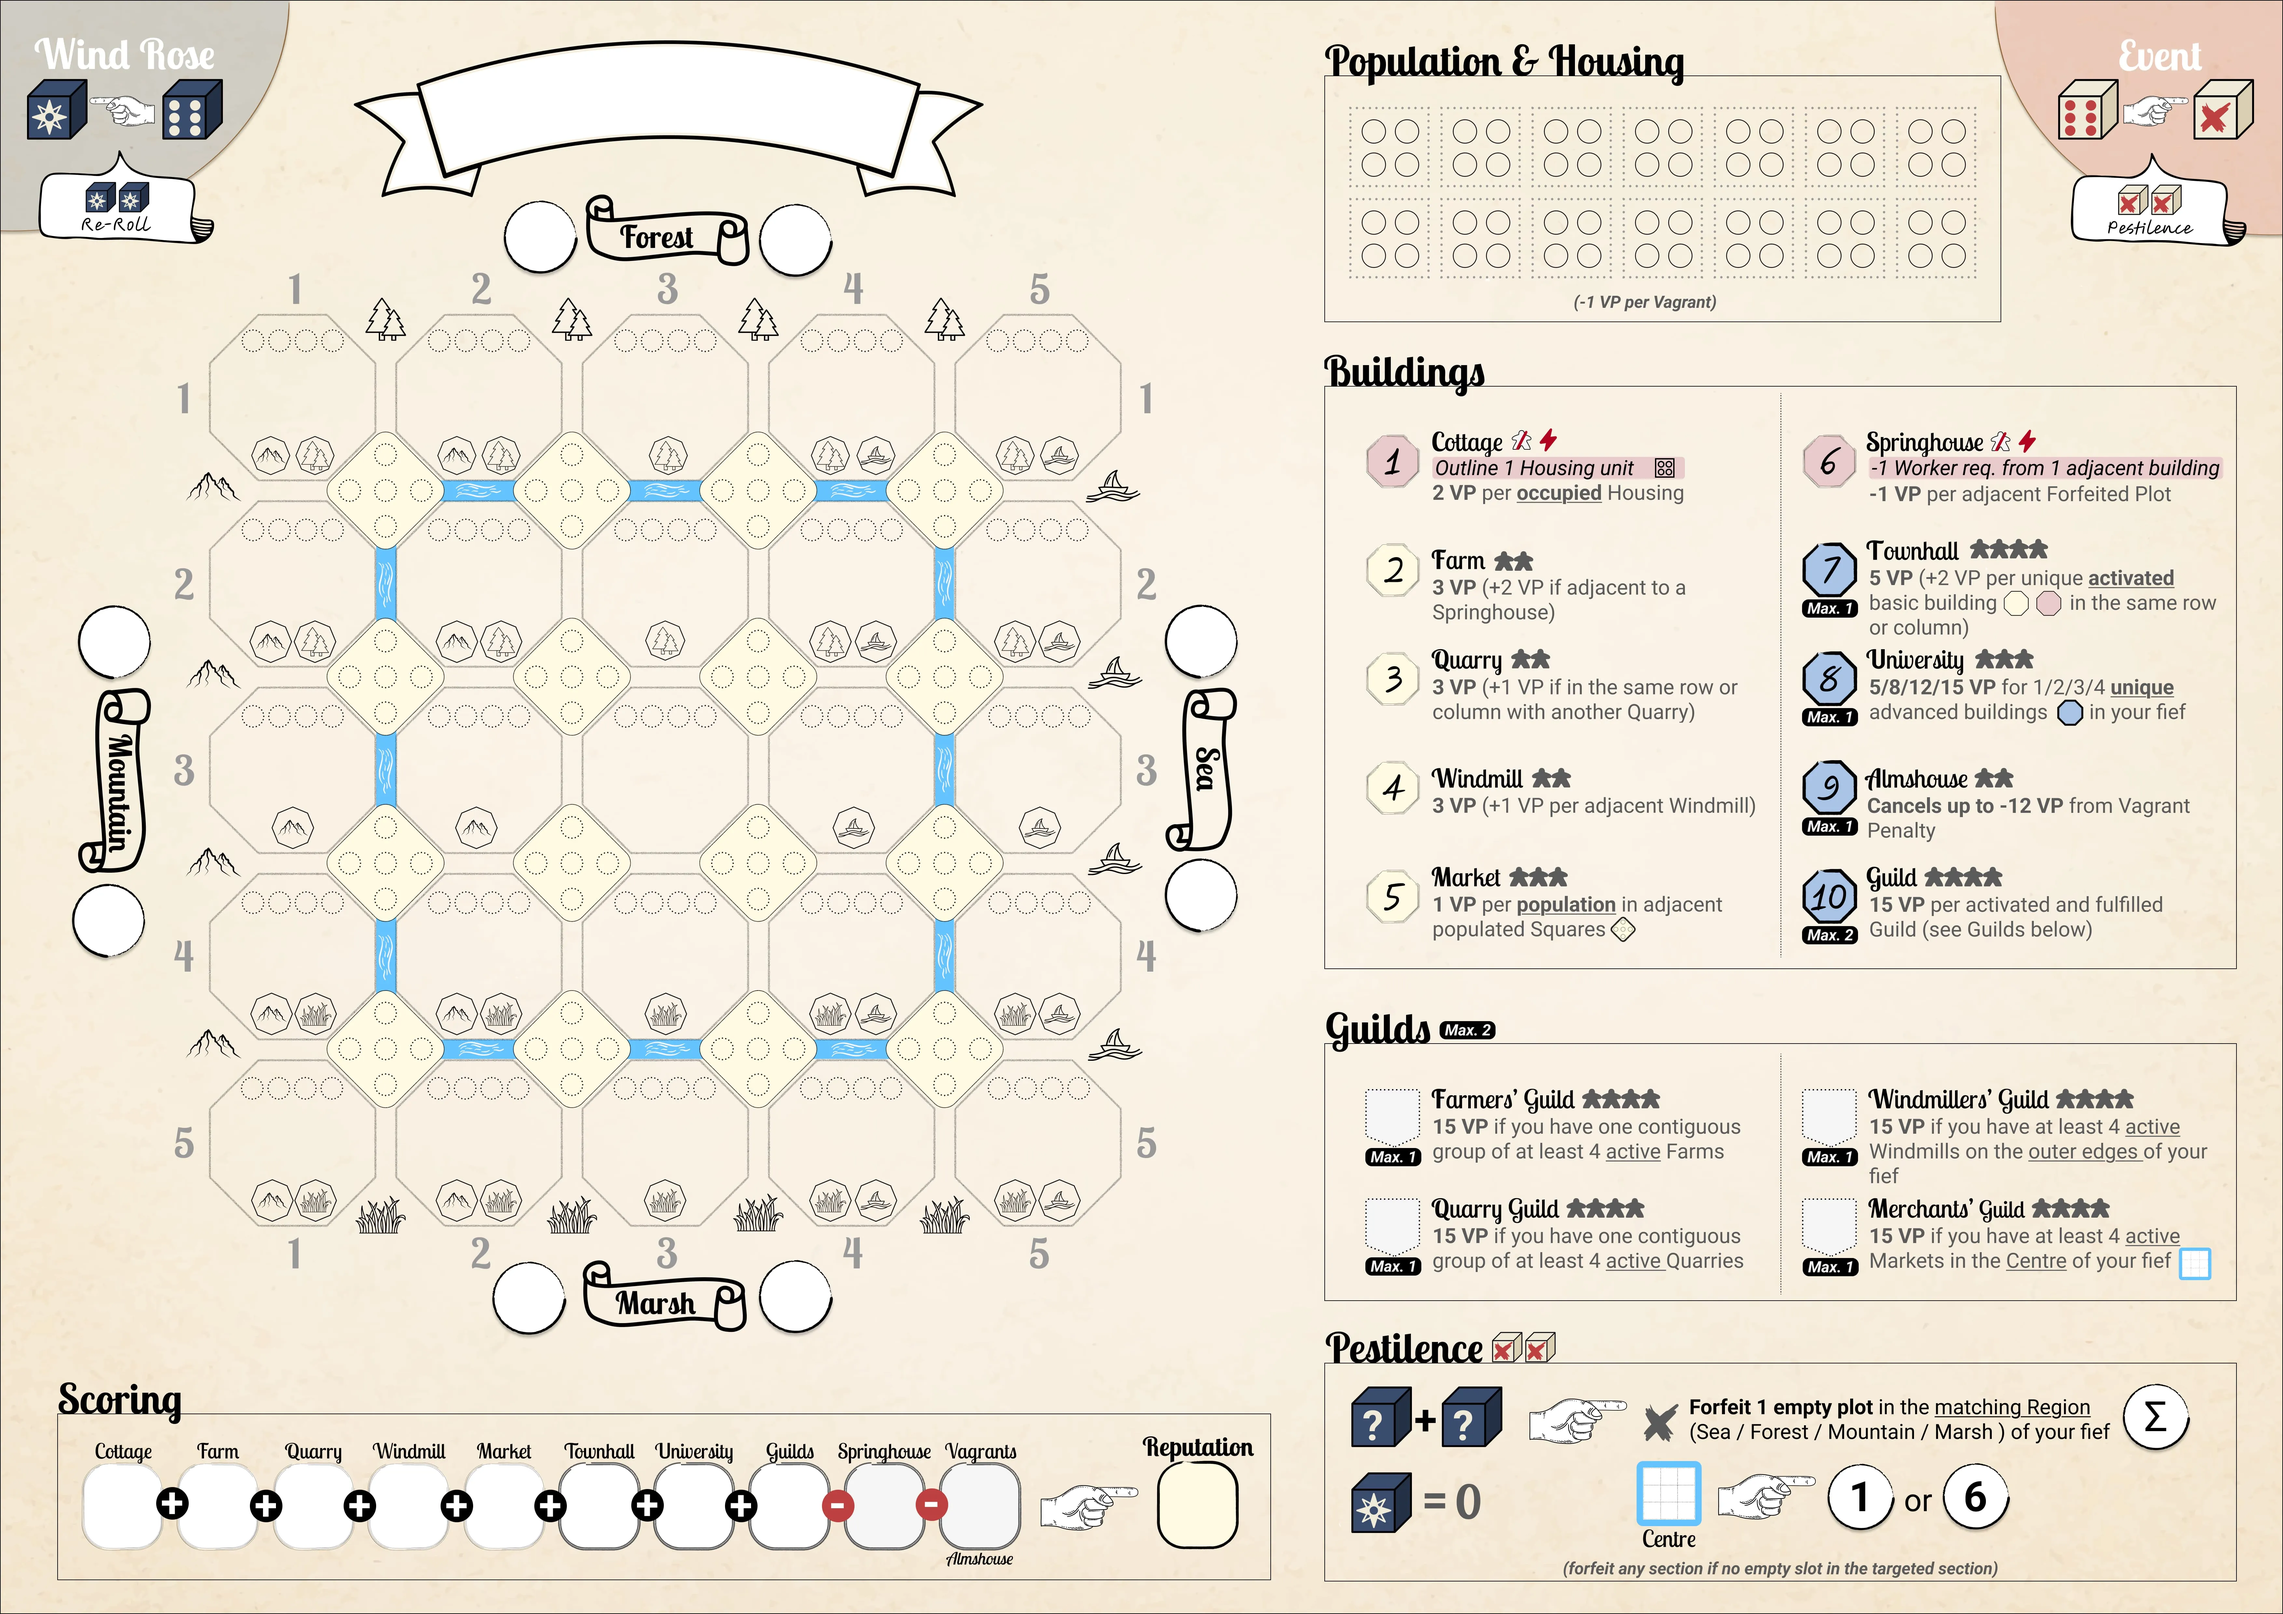
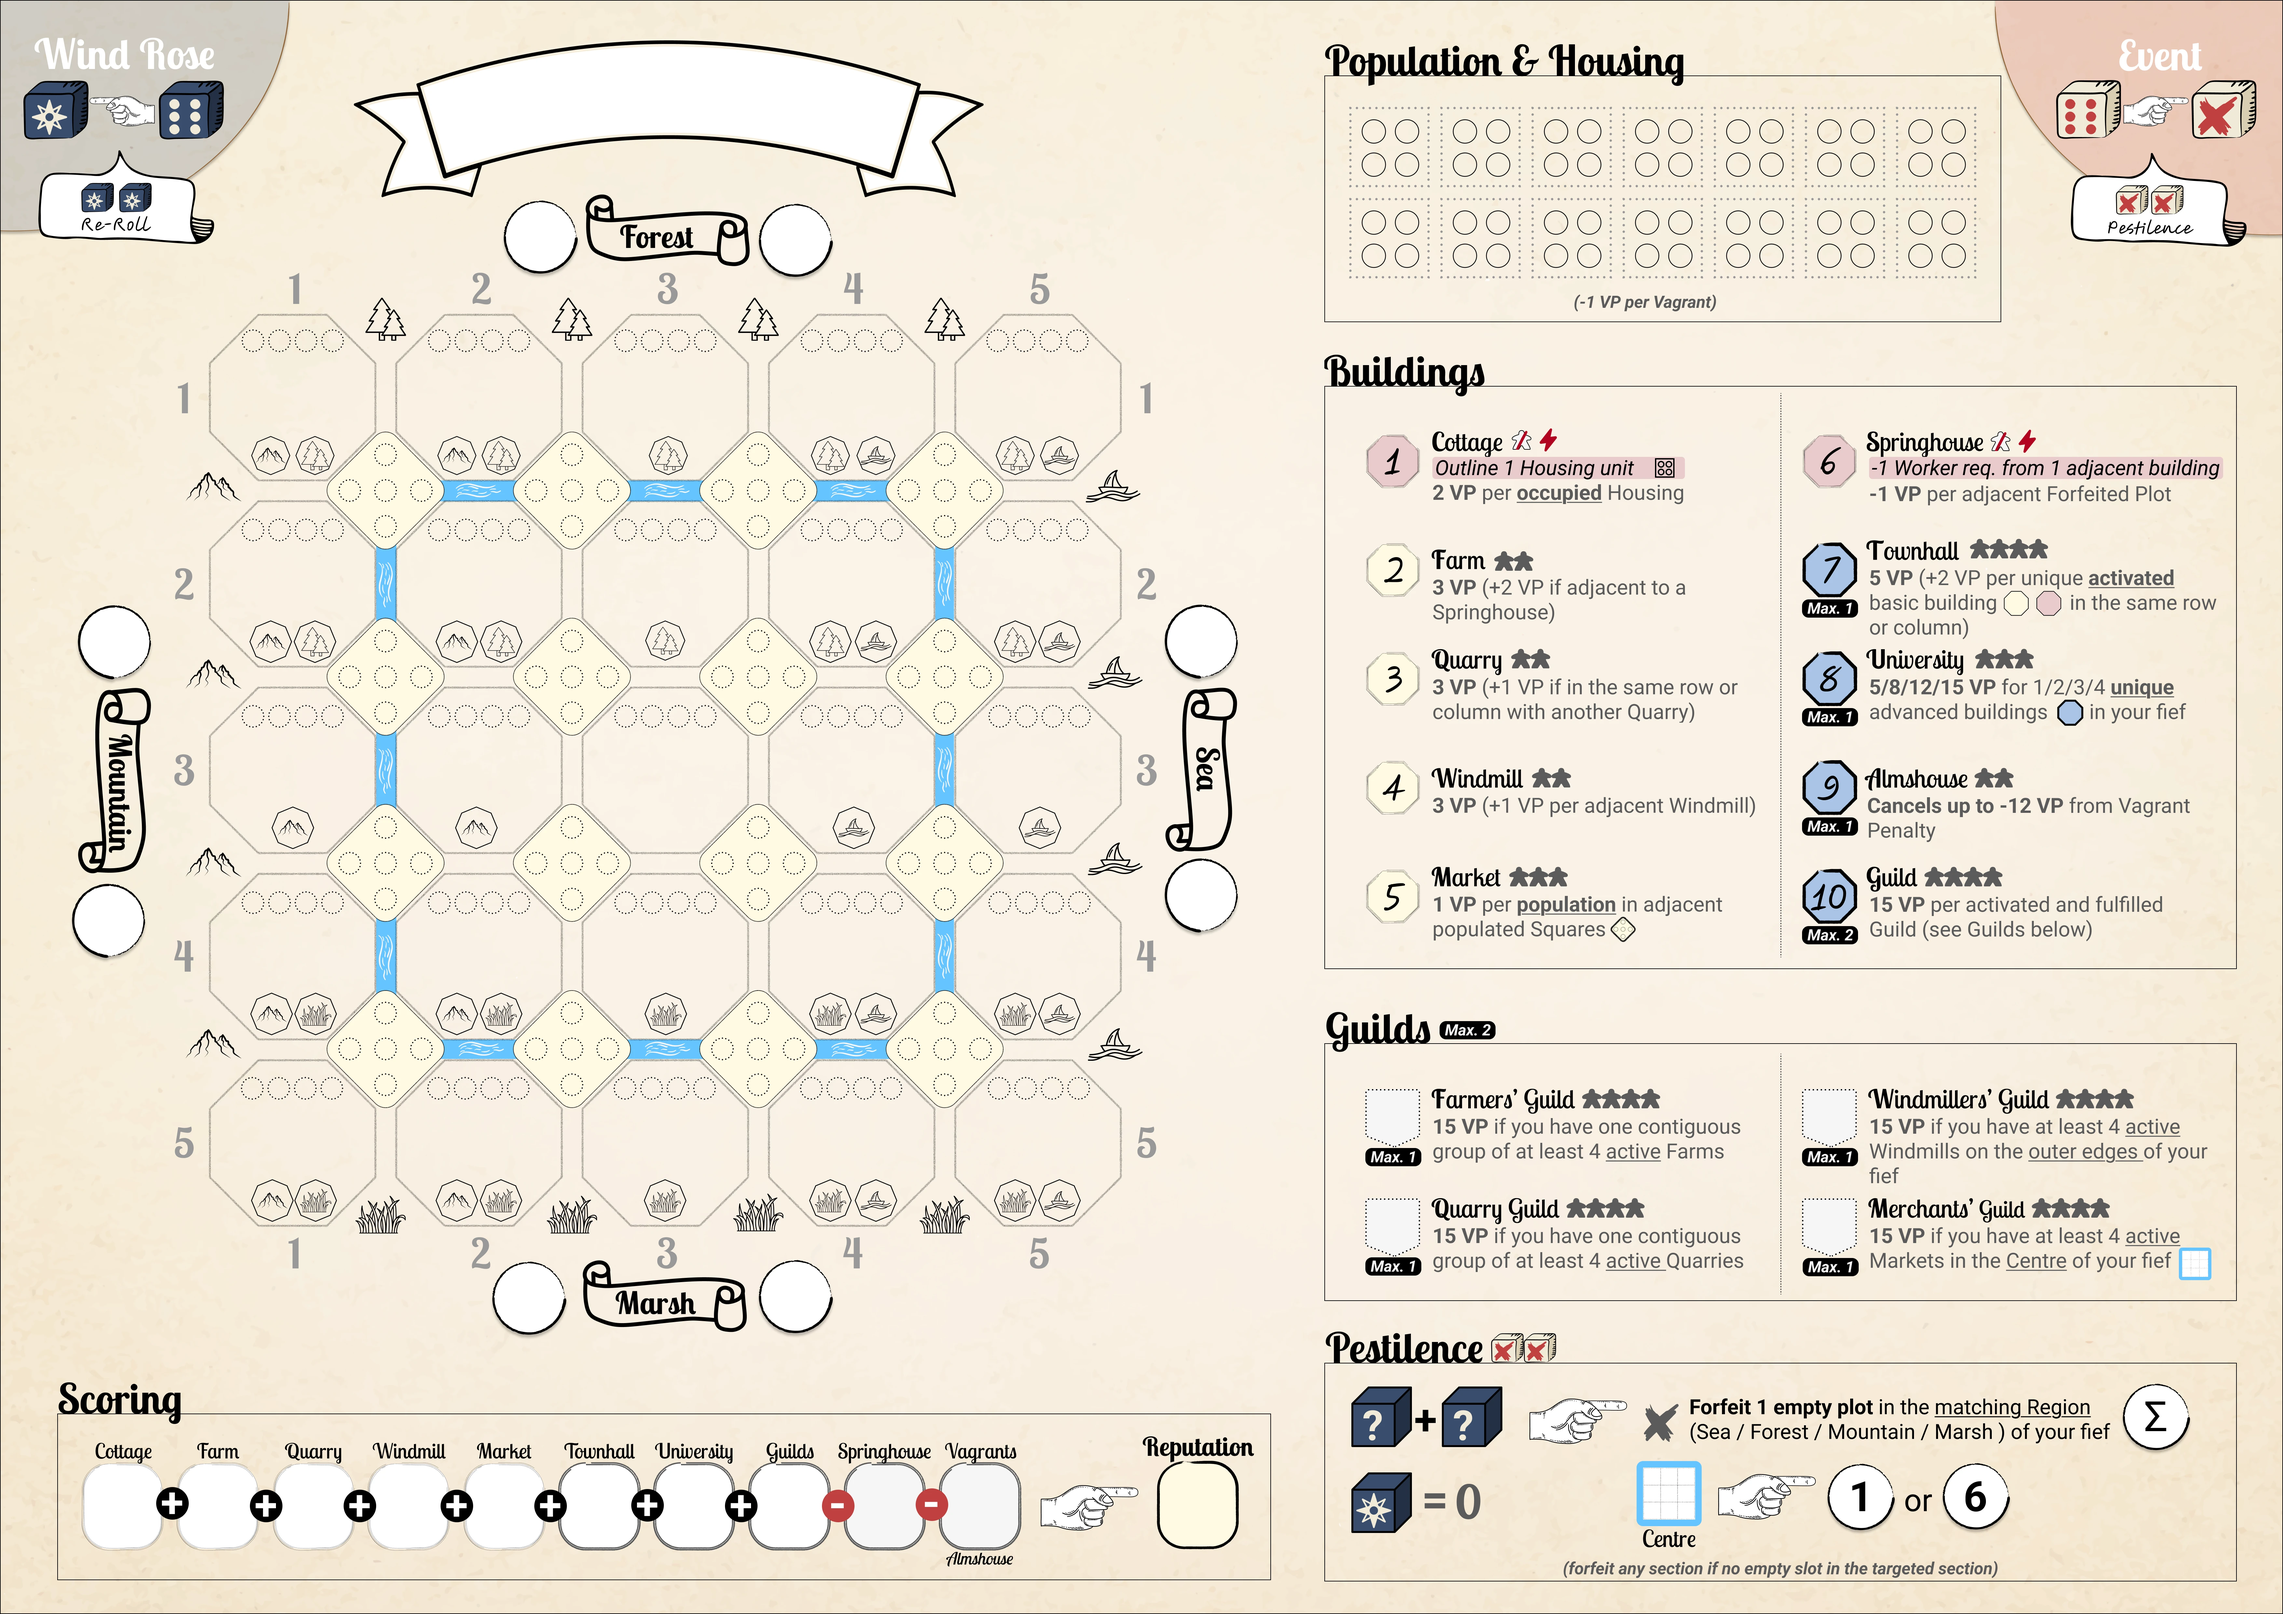
change dice shape

diff --git a/assets/css/styles.css b/assets/css/styles.css
@@ -1,5 +1,5 @@
 :root {
-  --sheet-image: url("../../resources/rolling-fiefdoms-player-sheet.webp?v=v1.3");
+  --sheet-image: url("../../resources/rolling-fiefdoms-player-sheet.webp?v=v1.5");
   --bg: #fffbe2;
   --panel: #ffffff;
   --border: #d0c6b8;
@@ -1143,8 +1143,8 @@ select {
   height: 42px;
   margin-right: 8px;
   border-radius: 8px;
-  background: var(--die-base);
-  border: 1px solid rgba(0, 0, 0, 0.1);
+  /* background: var(--die-base); */
+  /* border: 1px solid rgba(0, 0, 0, 0.1); */
   transform-style: preserve-3d;
   box-shadow: none;
   position: relative;
@@ -1162,46 +1162,6 @@ select {
   transform-style: preserve-3d;
   border-radius: 8px;
   overflow: hidden;
-}
-
-.die-badge .side-shade {
-  position: absolute;
-  inset: 3px;
-  border-radius: 6px;
-  background: none;
-  opacity: 0;
-  pointer-events: none;
-}
-
-.die-badge .side-shade::before,
-.die-badge .side-shade::after {
-  content: "";
-  position: absolute;
-  inset: 0;
-  border-radius: 6px;
-  background: linear-gradient(0deg, rgba(0, 0, 0, 0.06), transparent 60%);
-}
-
-.die-badge .side-shade::after {
-  background: linear-gradient(180deg, rgba(0, 0, 0, 0.06), transparent 60%);
-}
-
-.die-special .side-shade {
-  display: none;
-}
-
-.die-badge .side-3d {
-  display: none;
-}
-
-.die-badge .side-3d-x {
-  transform: rotateY(90deg) translateZ(21px) scaleY(0.92);
-  background: linear-gradient(90deg, rgba(0, 0, 0, 0.15), rgba(255, 255, 255, 0.04));
-}
-
-.die-badge .side-3d-y {
-  transform: rotateX(90deg) translateZ(21px) scaleX(0.92);
-  background: linear-gradient(180deg, rgba(0, 0, 0, 0.16), rgba(255, 255, 255, 0.04));
 }
 
 .die-badge::before {
@@ -1226,13 +1186,23 @@ select {
 .die-face {
   width: 90%;
   height: 90%;
-  color: #f0ebd8;
+  color: var(--die-base, #394c6d);
   border-radius: 8px;
-  overflow: hidden;
+  overflow: visible;
+}
+
+.die-base {
+  fill: currentColor;
+}
+
+.die-shape {
+  opacity: 1;
+  mix-blend-mode: normal;
+  pointer-events: none;
 }
 
 .pip-svg {
-  fill: #f0ebd8;
+  fill: var(--die-pip-color, #f0ebd8);
 }
 
 .die-x line {
@@ -1261,10 +1231,6 @@ select {
 
 .die-icon-forfeit {
   filter: none;
-}
-
-.die-special .die-face {
-  color: var(--die-pip-color);
 }
 
 .die-special .pip-svg {
@@ -1386,9 +1352,9 @@ body.theme-dark .die-badge {
 }
 
 .die-badge.location-selected {
-  border-color: rgba(230, 126, 34, 0.9);
+  background-color: rgba(230, 126, 34, 0.25);
   box-shadow:
-    0 0 0 2px rgba(230, 126, 34, 0.25),
+    0 0 0 2px var(--accent),
     0 4px 8px rgba(0, 0, 0, 0.12);
 }
 
@@ -1460,7 +1426,7 @@ body.theme-dark .die-badge {
 }
 
 .die-number {
-  --die-pip-color: #394c6d;
+  --die-pip-color: #f0ebd8;
   --die-base: #394c6d;
 }
 

diff --git a/app/dice-face.js b/app/dice-face.js
@@ -28,23 +28,44 @@ function addLabel(svg, text) {
   svg.appendChild(label);
 }
 
+function dieShapeAsset(die) {
+  const label = typeof die?.label === "string" ? die.label : "";
+  const isSpecial = label.startsWith("X");
+  return isSpecial ? "assets/img/die-event.svg" : "assets/img/die-windrose.svg";
+}
+
+function addDieShape(svg, die) {
+  const href = dieShapeAsset(die);
+  if (!href) return;
+  const shape = createSvg("image", {
+    href,
+    x: -3.2,
+    y: -3.2,
+    width: 70.4,
+    height: 70.4,
+    preserveAspectRatio: "xMidYMid slice",
+    class: "die-shape",
+  });
+  svg.appendChild(shape);
+}
+
 function addPips(svg, value) {
   const filled = pipPositions[value] || [];
   const coords = {
-    1: [14, 14],
-    2: [32, 14],
-    3: [50, 14],
-    4: [14, 32],
-    5: [32, 32],
-    6: [50, 32],
-    7: [14, 50],
-    8: [32, 50],
-    9: [50, 50],
+    1: [12, 28],
+    2: [24, 28],
+    3: [36, 28],
+    4: [12, 38],
+    5: [24, 38],
+    6: [36, 38],
+    7: [12, 48],
+    8: [24, 48],
+    9: [36, 48],
   };
   filled.forEach((idx) => {
     const [cx, cy] = coords[idx] || [];
     if (!cx || !cy) return;
-    const pip = createSvg("circle", { cx, cy, r: 8, class: "pip pip-svg" });
+    const pip = createSvg("circle", { cx, cy, r: 6, class: "pip pip-svg" });
     svg.appendChild(pip);
   });
 }
@@ -53,9 +74,9 @@ function addCross(svg) {
   const img = createSvg("image", {
     href: "assets/img/forfeit.svg",
     x: 5,
-    y: 5,
-    width: 54,
-    height: 54,
+    y: 17,
+    width: 42,
+    height: 42,
     class: "die-icon die-icon-forfeit",
     role: "presentation",
   });
@@ -65,10 +86,10 @@ function addCross(svg) {
 function addWindrose(svg) {
   const img = createSvg("image", {
     href: "assets/img/windrose.svg",
-    x: 5,
-    y: 5,
-    width: 54,
-    height: 54,
+    x: 3,
+    y: 17,
+    width: 42,
+    height: 42,
     class: "die-icon die-icon-windrose",
     role: "presentation",
   });
@@ -77,6 +98,7 @@ function addWindrose(svg) {
 
 export function createDieFaceSVG(die, { showLabel = true } = {}) {
   const svg = createSvg("svg", { viewBox: "0 0 64 64", class: "die-face", "aria-hidden": "true" });
+  addDieShape(svg, die);
   addLabel(svg, showLabel ? die?.label : null);
 
   if (die?.face === "X") {

diff --git a/sw.js b/sw.js
@@ -1,8 +1,8 @@
 /* eslint-env serviceworker */
-const CACHE_VERSION = "v1.3";
+const CACHE_VERSION = "v1.7";
 const CACHE_NAME = `rf-cache-${CACHE_VERSION}`;
 const APP_VERSION = "v1";
-const SHEET_VERSION = "v1.3";
+const SHEET_VERSION = "v1.5";
 const ASSETS = [
   "/",
   "/index.html",
@@ -19,6 +19,8 @@ const ASSETS = [
   "/assets/fonts/Roboto/Roboto-Italic-VariableFont_wdth,wght.woff2",
   "/assets/img/forfeit.svg",
   "/assets/img/windrose.svg",
+  "/assets/img/die-event.svg",
+  "/assets/img/die-windrose.svg",
   "/assets/img/rules.webp",
   "/assets/img/playersheet.webp",
   "/assets/img/github.webp",
